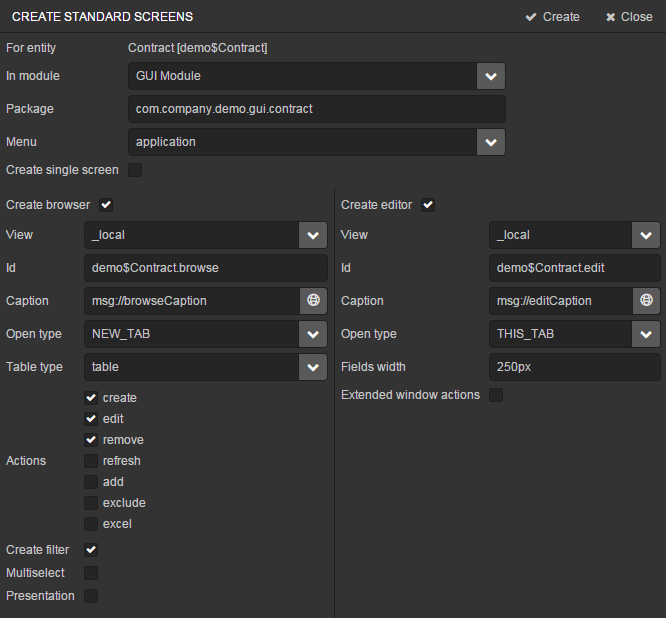
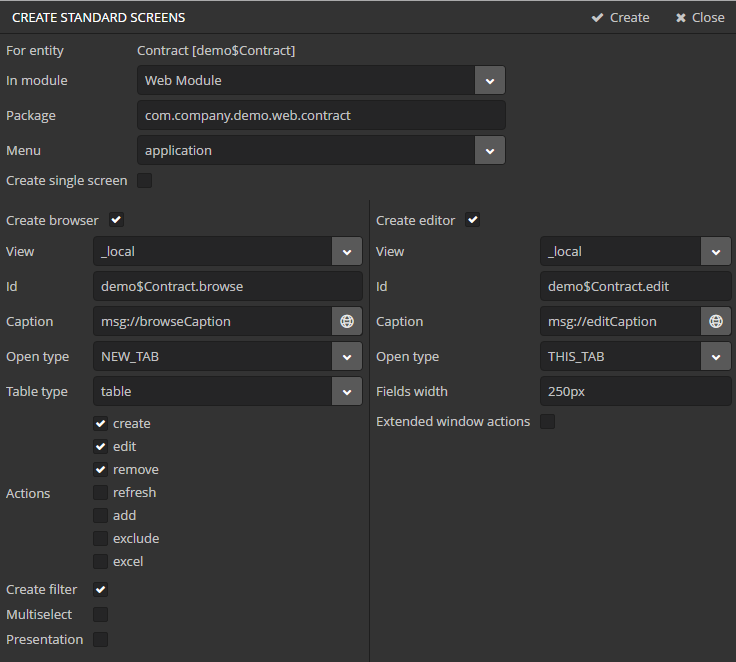
PLD-220 BPM standard screens are now created in the WEB module

diff --git a/content/bpm/source/quickstart/ContractEdit.java b/content/bpm/source/quickstart/ContractEdit.java
@@ -1,4 +1,4 @@
-package com.company.demo.gui.contract;
+package com.company.demo.web.contract;
 
 import com.company.demo.entity.Contract;
 import com.haulmont.bpm.entity.ProcDefinition;
